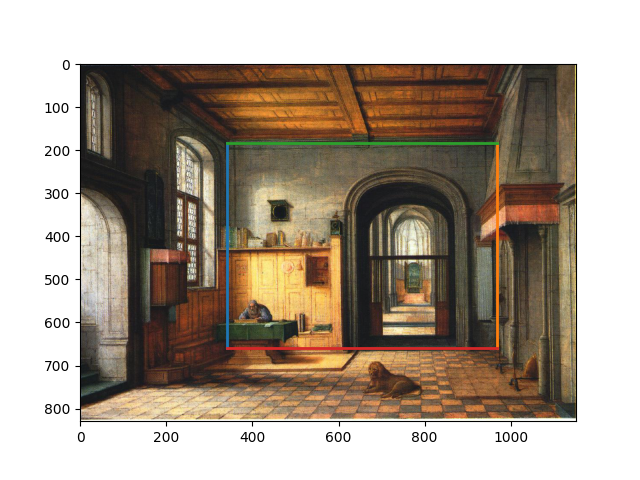
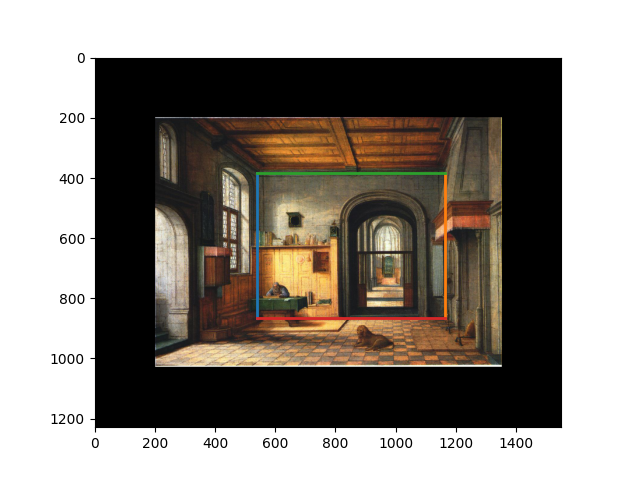
add margin

diff --git a/draw_helper.py b/draw_helper.py
@@ -35,18 +35,20 @@ def to_line(pt1, pt2):
         return [a]
 
 
-def to_corner(vanishing_pt, b_bt, v2, h2):
+# Given vanishing point, a single bounding box corner points
+# and bounding vertical and horizontal lines
+def to_corner(vanishing_pt, b_bt, v1, v2, h1, h2):
     line_param = to_line(vanishing_pt, b_bt)
     v_pt1, v_pt2 = vanishing_pt
     b1, b2 = b_bt
     if v_pt1 < b1 and v_pt2 <= b2:
         h, v = h2, v2
     elif v_pt1 < b1 and v_pt2 > b2:
-        h, v = 0, v2
+        h, v = h1, v2
     elif v_pt1 >= b1 and v_pt2 <= b2:
-        h, v = h2, 0
+        h, v = h2, v1
     else:
-        h, v = 0, 0
+        h, v = h1, v1
     if len(line_param) == 1:
         print('Parallel to y axis')
     elif line_param[0] == 0:
@@ -55,24 +57,22 @@ def to_corner(vanishing_pt, b_bt, v2, h2):
         m, n = line_param
         h_x, h_y = (h - n) / m, h
         v_x, v_y = v, m * v + n
-        if 0 <= h_x <= v2 and 0 <= h_y <= h2:
-            return h_x, h_y
-        else:
+        if v1 <= h_x <= v2 and h1 <= h_y <= h2:
             return v_x, v_y
+        else:
+            return h_x, h_y
 
 
 # Key Func
-def draw_corner(bbox_params, img):
-    h, w, _ = np.array(img).shape
+def draw_corner(bbox_params, img, w1, w2, h1, h2):
+
     fig, ax = plt.subplots()
     ax.imshow(img)
     vanishing_pt = plt.ginput(1)[0]
     corner_pts = []
-    corners = []
     for b_pt in bbox_params:
-        x, y = to_corner(vanishing_pt, b_pt, w, h)
+        x, y = to_corner(vanishing_pt, b_pt, w1, w2, h1, h2)
         corner_pts.append((x, y))
-        corners.append((y, x))
     for i in range(4):
         ax.plot((corner_pts[i][0], vanishing_pt[0]), (corner_pts[i][1], vanishing_pt[1]), '-', linewidth=2)
     lu, ld, ru, rd = bbox_params[0], bbox_params[1], bbox_params[2], bbox_params[3]
@@ -81,5 +81,41 @@ def draw_corner(bbox_params, img):
             (lu[0], ru[0]), (lu[1], ru[1]),
             (ld[0], rd[0]), (ld[1], rd[1]), '-', linewidth=2)
     fig.savefig('bbox_with_corner.png')
-    return corners
+    return vanishing_pt, corner_pts
 
+
+def invert_xy(pts):
+    inverted = []
+    for pt in pts:
+        inverted.append((pt[1], pt[0]))
+    return inverted
+
+
+def add_margin(img, width):
+    img = np.array(img)
+    h, w, _ = img.shape
+    new_im = np.zeros((h + 2 * width, w + 2 * width, 3))
+    new_im[width: h + width, width: w + width, :] = img
+    return new_im.astype(np.int), h, w
+
+
+def get_h_pts(v_pt, key_points, line, pos):
+    c1, c2 = key_points['c1'], key_points['c2']
+    b1, b2 = key_points['b1'], key_points['b2']
+    l1_param = to_line(v_pt, c1)
+    l2_param = to_line(v_pt, c2)
+    if pos == 'h':
+        c1 = (line, line * l1_param[0] + l1_param[1])
+        c2 = (line, line * l2_param[0] + l2_param[1])
+    else:
+        c1 = ((line - l1_param[1]) / l1_param[0], line)
+        c2 = ((line - l2_param[1]) / l2_param[0], line)
+
+    return {'c1': c1, 'c2': c2, 'b1': b1, 'b2': b2}
+
+
+
+
+
+# TODO: Define 3D location for each phase and learn how to plot in matplotlib
+# TODO: using some margin methods to extend 

diff --git a/main.py b/main.py
@@ -1,6 +1,6 @@
 from draw_helper import *
 from warp import *
-import matplotlib as plt
+import matplotlib.pyplot as plt
 import skimage.io as skio
 
 
@@ -10,14 +10,44 @@ import skimage.io as skio
 def main():
 
     img = skio.imread('sjerome.jpg')
-    bbox_params = draw_bbox(img)
-    corner_pts = draw_corner(bbox_params, img)
+    margin = 200
+    new_img, img_h, img_w = add_margin(img, margin)
+    bbox_params = draw_bbox(new_img)
+    v_pt, corner_pts = draw_corner(bbox_params, new_img, margin, margin + img_w, margin, margin + img_h)
+    corner_pts = invert_xy(corner_pts)
     print(corner_pts)
-    a = bbox_params[1]
-    b = bbox_params[0]
-    pts1 = [corner_pts[1], corner_pts[0], (a[1],a[0]), (b[1],b[0])]
-    im = inverse_warp(300, 600, pts1, img)
-    skio.imsave('warped.png', im)
+
+    h, w, d = 500, 700, 850
+    bbox_params_inv = invert_xy(bbox_params)
+    pts_l_side = {'c1': corner_pts[1], 'c2': corner_pts[0], 'b1': bbox_params_inv[1], 'b2': bbox_params_inv[0]}
+    pts_s_side = {'c1': corner_pts[3], 'c2': corner_pts[2], 'b1': bbox_params_inv[3], 'b2': bbox_params_inv[2]}
+    pts_ceiling = {'c1': corner_pts[0], 'c2': corner_pts[2], 'b1': bbox_params_inv[0], 'b2': bbox_params_inv[2]}
+    pts_floor = {'c1': corner_pts[1], 'c2': corner_pts[3], 'b1': bbox_params_inv[1], 'b2': bbox_params_inv[3]}
+
+    pts_l_side = get_h_pts(v_pt, pts_l_side, margin, 'v')
+    pts_l_side = [pts_l_side['c1'],pts_l_side['c2'], pts_l_side['b1'], pts_l_side['b2']]
+    inverse_warp(h, w, pts_l_side, new_img, 'l_side.png')
+
+    pts_r_side = get_h_pts(v_pt, pts_s_side, margin+img_w, 'v')
+    pts_r_side = [  pts_r_side['b1'], pts_r_side['b2'], pts_r_side['c1'], pts_r_side['c2']]
+    print(pts_r_side)
+    inverse_warp(h, w, pts_r_side, new_img, 'r_side.png')
+
+    pts_ceiling = get_h_pts(v_pt, pts_ceiling, margin, 'h')
+    pts_ceiling = [pts_ceiling['b1'], pts_ceiling['c1'], pts_ceiling['b2'], pts_ceiling['c2']]
+    inverse_warp(d, w, pts_ceiling, new_img, 'ceiling.png')
+
+    pts_floor = get_h_pts(v_pt, pts_floor, margin+img_h, 'h')
+    pts_floor = [pts_floor['c1'], pts_floor['b1'], pts_floor['c2'], pts_floor['b2']]
+    print(pts_floor)
+    inverse_warp(d, w, pts_floor, new_img, 'floor.png')
+
+
+
+
+
+
+
 
 
 if __name__ == '__main__':

diff --git a/warp.py b/warp.py
@@ -1,13 +1,14 @@
 import numpy as np
+import skimage.io as skio
 
 
-def inverse_warp(h, w, pts1, img1):
+def inverse_warp(h2, w2, pts1, img1, f_name):
     img1 = np.array(img1)
     h, w, _ = img1.shape
-    img2 = np.zeros((h, w, 3))
-    pts2 = [[0, 0], [h, 0], [0, w], [h, w]]
+    img2 = np.zeros((h2, w2, 3))
+    pts2 = [[h2, 0],[0, 0], [h2, w2],[0, w2]]
     matrix = computeH(pts2, pts1)
-    img2_pts = np.mgrid[0:h, 0:w]
+    img2_pts = np.mgrid[0:h2, 0:w2]
     img2_pts = np.vstack((img2_pts[0].ravel(), img2_pts[1].ravel()))
     pts_matrix = np.vstack((img2_pts, np.ones((img2_pts.shape[1],), dtype=int)))
     img1_pts = matrix @ pts_matrix
@@ -15,9 +16,8 @@ def inverse_warp(h, w, pts1, img1):
     img1_pts[0, :] = np.clip(img1_pts[0, :], 0, h-1)
     img1_pts[1, :] = np.clip(img1_pts[1, :], 0, w-1)
     img2[img2_pts[0, :].astype(int), img2_pts[1, :].astype(int)] = img1[img1_pts[0, :], img1_pts[1, :]]
+    skio.imsave(f_name, img2.astype(np.uint8))
     return img2
-
-
 
 
 def computeH(pts1, pts2):
